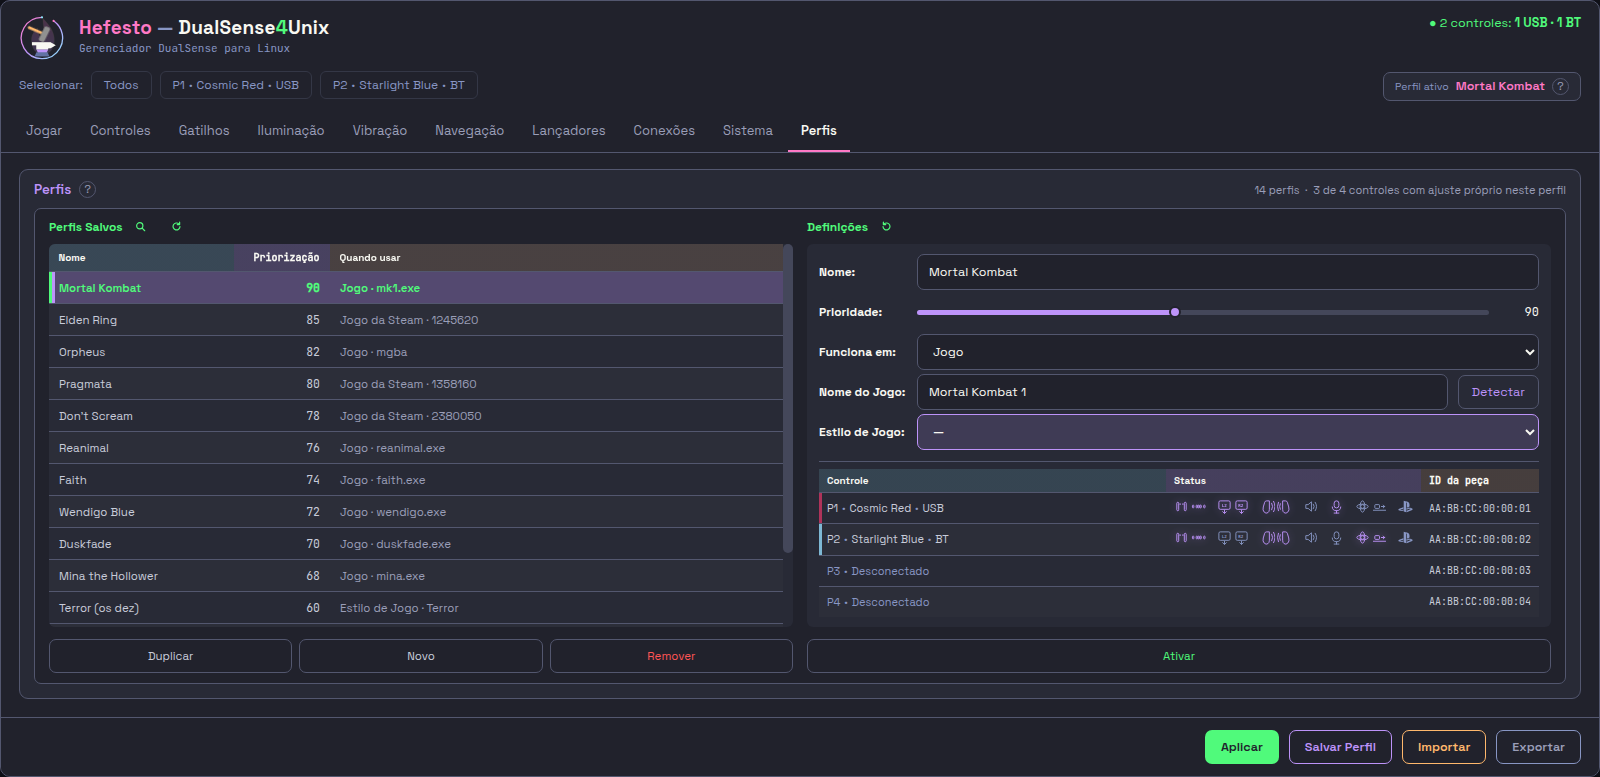
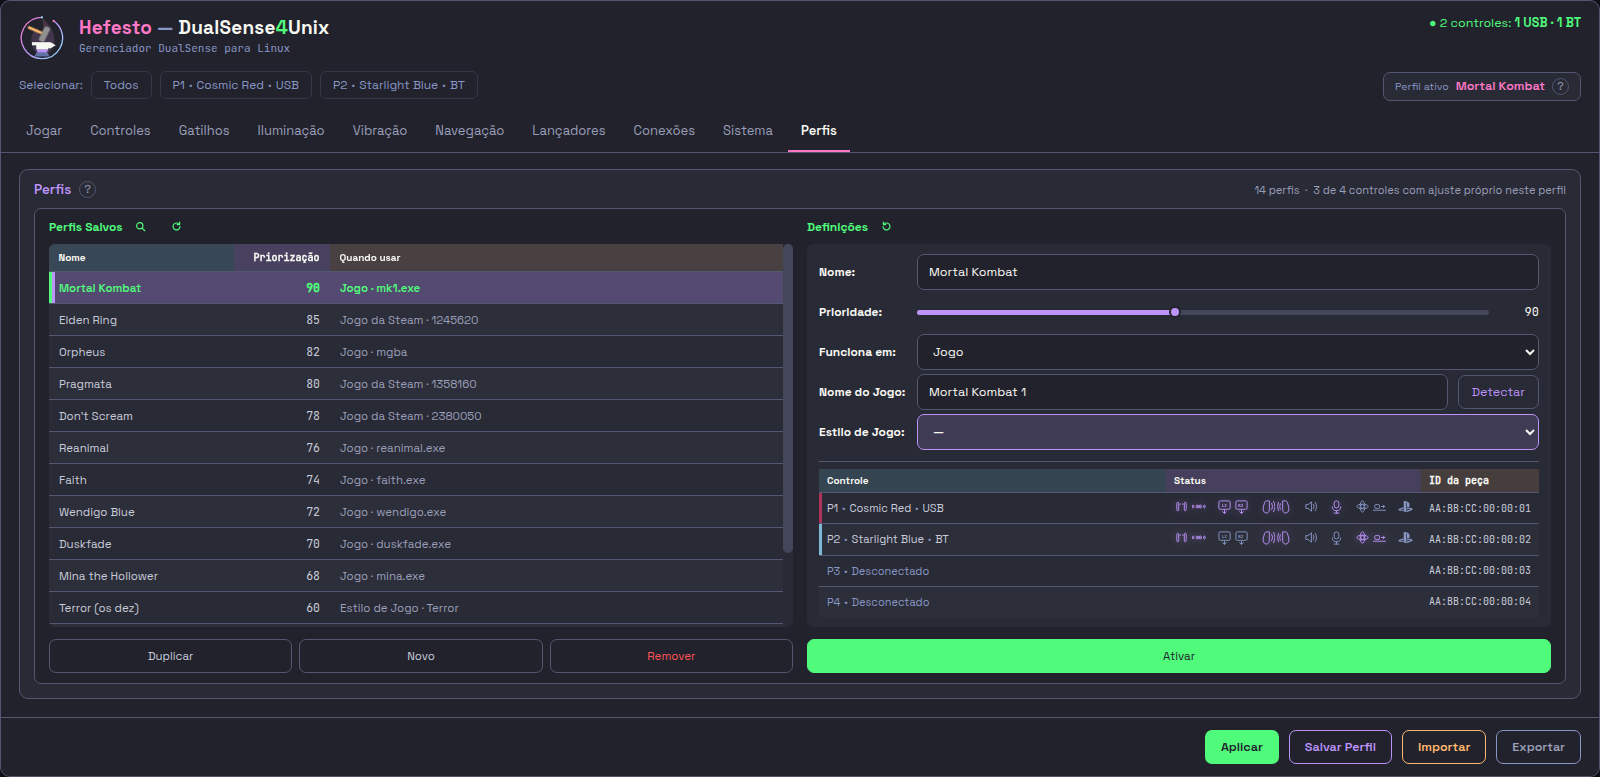
fix(tela): o «Achei este lançador aqui» sai dos cinco cartões, e o «Ativar» fica sólido
Duas ordens dela, 11/09/2026, com o produto instalado na frente:

> *"remove as frases do achei esse lançador aqui"*
> *"deixa esse botão verde do ativar igual o do aplicar"*

A FRASE ERA O SELO DE NOVO, EM PROSA. Cinco cartões empilhados — Heroic,
Lutris, Flatpak, RetroArch e Dolphin·mGBA — repetiam o mesmo parágrafo com o
caminho do `.desktop` no meio, e ela leu os cinco de uma vez. Quem responde «o
produto achou este lançador» é o selo `LOCALIZADO`; quantos jogos ele tem, a
linha de cima. A `DIZ_ACHEI` fica no código, vazia: ela é o LUGAR da frase
deste estado, e apagá-la faria o cartão do achado e o do não-achado deixarem
de ser simétricos.

E A RÉGUA COBRAVA O CAMINHO NA TELA. Ela passa a cobrar o contrário — que o
cartão achado seja o ÚNICO calado, e que os outros dois continuem falando,
porque neles o selo sozinho não diz o que fazer. Uma frase que volte a nascer
ali reprova.

O «Ativar» GANHA A FORMA DO «Aplicar»: fundo verde, texto na cor do fundo da
janela. O `.btn.verde` da casa pinta só o TEXTO, e era assim que ele nascia na
fileira de três; sozinho no canto largo ele é a ação principal da aba, e ela o
leu como tal. O seletor é local (`.botoes.um-so`) de propósito — a casa tem
outros botões verdes de contorno, e trocá-los todos mudaria nove telas que ela
não olhou.

56 portões verdes.

Changed region(s): [[0.5, 0.8031, 0.9688, 0.8649]]

diff --git a/mockup/10-perfis.html b/mockup/10-perfis.html
@@ -1180,6 +1180,21 @@
   /* UM BOTÃO SÓ, e a grade de três o deixaria com um terço da largura e dois
      vãos vazios ao lado — que é mais sujo do que os três eram. 11/09/2026. */
   .botoes.um-so{grid-template-columns:1fr}
+  /* O «Ativar» É SÓLIDO COMO O «Aplicar» — ordem dela, 11/09/2026: *"deixa esse
+     botão verde do ativar igual o do aplicar"*.  (noqa-acento) citação literal dela
+     O `.btn.verde` da casa pinta só o TEXTO de verde, e é assim que o `Ativar`
+     nasceu na fileira da esquerda, ao lado de dois irmãos de contorno. Sozinho
+     no canto largo ele é a ação PRINCIPAL desta aba, e ela o leu como tal: a
+     mesma forma do `r-aplicar` do rodapé (fundo verde, texto na cor do fundo
+     da janela), que é o único outro botão desta tela que faz alguma coisa
+     acontecer nos controles agora.
+     O SELETOR É LOCAL DE PROPÓSITO — `.botoes.um-so` e não `.btn.verde`: a casa
+     tem outros botões verdes de contorno, e trocá-los todos por causa deste
+     mudaria nove telas que ela não olhou. */
+  .botoes.um-so .btn.verde{background:var(--green);color:var(--app-bg);
+                           border-color:var(--green)}
+  .botoes.um-so .btn.verde:hover{background:var(--green);color:var(--app-bg);
+                                 border-color:var(--green)}
   /* os campos do editor, todos na mesma grade */
   /* os campos ficam sobre o MESMO fundo da tabela ao lado, e assim os três botões
      de baixo nascem na mesma base nos dois blocos. */

diff --git a/src/hefesto_dualsense4unix/interface/paginas/10-perfis.html b/src/hefesto_dualsense4unix/interface/paginas/10-perfis.html
@@ -1180,6 +1180,21 @@
   /* UM BOTÃO SÓ, e a grade de três o deixaria com um terço da largura e dois
      vãos vazios ao lado — que é mais sujo do que os três eram. 11/09/2026. */
   .botoes.um-so{grid-template-columns:1fr}
+  /* O «Ativar» É SÓLIDO COMO O «Aplicar» — ordem dela, 11/09/2026: *"deixa esse
+     botão verde do ativar igual o do aplicar"*.  (noqa-acento) citação literal dela
+     O `.btn.verde` da casa pinta só o TEXTO de verde, e é assim que o `Ativar`
+     nasceu na fileira da esquerda, ao lado de dois irmãos de contorno. Sozinho
+     no canto largo ele é a ação PRINCIPAL desta aba, e ela o leu como tal: a
+     mesma forma do `r-aplicar` do rodapé (fundo verde, texto na cor do fundo
+     da janela), que é o único outro botão desta tela que faz alguma coisa
+     acontecer nos controles agora.
+     O SELETOR É LOCAL DE PROPÓSITO — `.botoes.um-so` e não `.btn.verde`: a casa
+     tem outros botões verdes de contorno, e trocá-los todos por causa deste
+     mudaria nove telas que ela não olhou. */
+  .botoes.um-so .btn.verde{background:var(--green);color:var(--app-bg);
+                           border-color:var(--green)}
+  .botoes.um-so .btn.verde:hover{background:var(--green);color:var(--app-bg);
+                                 border-color:var(--green)}
   /* os campos do editor, todos na mesma grade */
   /* os campos ficam sobre o MESMO fundo da tabela ao lado, e assim os três botões
      de baixo nascem na mesma base nos dois blocos. */

diff --git a/src/hefesto_dualsense4unix/interface/desenho_dos_lancadores.py b/src/hefesto_dualsense4unix/interface/desenho_dos_lancadores.py
@@ -879,14 +879,24 @@ DIZ_SEM_FONTE = (
     "por aqui entra pelo mesmo caminho de qualquer outro."
 )
 
-#: A frase de quem PROCUROU E ACHOU. O `{onde}` é o atalho ou o comando que
-#: denunciou o lançador — dizer ONDE é o que separa esta frase de um palpite,
-#: e é o que deixa ela conferir a resposta sem acreditar em mim.
-DIZ_ACHEI = (
-    "<b>Achei este lançador aqui</b> (<code>{onde}</code>). O perfil casa pelo "
-    "nome do processo e pela janela, então um jogo aberto por aqui entra pelo "
-    "mesmo caminho de qualquer outro."
-)
+#: A frase de quem PROCUROU E ACHOU — **VAZIA DESDE 11/09/2026, ordem dela**:
+#: *"remove as frases do achei esse lançador aqui"*.  <!-- noqa-acento: citação literal dela -->
+#:
+#: O CARTÃO JÁ DIZ AS DUAS COISAS SEM ELA. O selo `LOCALIZADO` responde *"o
+#: produto achou este lançador"*, e a linha de cima responde quantos jogos ele
+#: tem — a frase repetia o selo em prosa, no plural, em cinco cartões
+#: empilhados. Ela viu os cinco de uma vez e recusou os cinco.
+#:
+#: **O CAMINHO NÃO SE PERDEU, mudou de lugar**: ele continua sendo lido e
+#: continua sendo o que o `presente=True` afirma; o que saiu foi pintá-lo na
+#: tela. Quem precisa conferir por onde o produto achou o lançador tem o
+#: `doctor`, que imprime o atalho e o comando de cada um.
+#:
+#: A CONSTANTE FICA, e vazia de propósito — ela é o LUGAR da frase deste
+#: estado, e apagá-la faria o cartão do achado e o do não-achado deixarem de
+#: ser simétricos no código. As réguas que perguntam pelo estado continuam
+#: tendo a quem perguntar.
+DIZ_ACHEI = ""
 
 #: A frase de quem PROCUROU E NÃO ACHOU.
 #:
@@ -1843,7 +1853,7 @@ def cartao_sem_censo(item: SemCenso, onde: str | None,
     return Lancador(
         chave=item.chave, nome=item.nome, selo="localizado",
         jogos=resumo or "—",
-        diz=DIZ_ACHEI.format(onde=_e(onde)),
+        diz=DIZ_ACHEI,
         acoes=abrir + localizar + tirar, presente=True)
 
 

diff --git a/tests/unit/test_a_aba_lancadores_diz_a_verdade.py b/tests/unit/test_a_aba_lancadores_diz_a_verdade.py
@@ -648,9 +648,25 @@ def test_o_cartao_achado_e_o_nao_achado_dizem_coisas_diferentes(desenho):
     assert len({nao_procurei.diz, nao_achei.diz, achei.diz}) == 3, (
         "dois dos três estados dizem a MESMA frase — a tela voltou a não "
         "separar 'procurei e não achei' de 'ainda não procurei'")
-    assert "com.heroicgameslauncher.hgl.desktop" in achei.diz, (
-        "o cartão diz que achou e não diz ONDE — sem isso ela não tem como "
-        "conferir a resposta sem acreditar em mim")
+    # O CARTÃO ACHADO É O ÚNICO SEM FRASE — 11/09/2026, ordem dela:
+    # *"remove as frases do achei esse lançador aqui"*.  (noqa-acento) citação
+    # Aqui estava cravado o caminho do `.desktop`, e a régua cobrava que a tela
+    # o pintasse. Ela olhou cinco cartões empilhados repetindo o mesmo parágrafo
+    # e recusou os cinco: quem responde *"o produto achou este lançador"* é o
+    # SELO, e a linha de cima diz quantos jogos ele tem. A frase era o selo de
+    # novo, em prosa.
+    #
+    # O QUE A RÉGUA COBRA AGORA é o que sobrou de verdade: que o estado ACHADO
+    # continue distinguível dos outros dois na tela — pelo selo e pelo
+    # `presente`, que as linhas acima já medem — e que ele seja o único calado.
+    # Uma frase que voltasse a nascer aqui reprovaria, e é isso que morde.
+    assert achei.diz == "", (
+        f"o cartão do lançador ACHADO voltou a falar: {achei.diz!r}. Ela o "
+        f"calou em 11/09 — o selo `LOCALIZADO` e a contagem de jogos já dizem "
+        f"tudo o que a frase dizia")
+    assert nao_achei.diz and nao_procurei.diz, (
+        "o cartão calado tinha de ser SÓ o do achado — os outros dois estados "
+        "precisam da frase, porque neles o selo sozinho não diz o que fazer")
 
 
 def test_todo_cartao_tem_botao_nos_tres_estados_e_o_do_ausente_e_outro(desenho):

diff --git a/src/hefesto_dualsense4unix/interface/aba10.py b/src/hefesto_dualsense4unix/interface/aba10.py
@@ -519,6 +519,21 @@ CSS = CSS_GLIFO + """
   /* UM BOTÃO SÓ, e a grade de três o deixaria com um terço da largura e dois
      vãos vazios ao lado — que é mais sujo do que os três eram. 11/09/2026. */
   .botoes.um-so{grid-template-columns:1fr}
+  /* O «Ativar» É SÓLIDO COMO O «Aplicar» — ordem dela, 11/09/2026: *"deixa esse
+     botão verde do ativar igual o do aplicar"*.  (noqa-acento) citação literal dela
+     O `.btn.verde` da casa pinta só o TEXTO de verde, e é assim que o `Ativar`
+     nasceu na fileira da esquerda, ao lado de dois irmãos de contorno. Sozinho
+     no canto largo ele é a ação PRINCIPAL desta aba, e ela o leu como tal: a
+     mesma forma do `r-aplicar` do rodapé (fundo verde, texto na cor do fundo
+     da janela), que é o único outro botão desta tela que faz alguma coisa
+     acontecer nos controles agora.
+     O SELETOR É LOCAL DE PROPÓSITO — `.botoes.um-so` e não `.btn.verde`: a casa
+     tem outros botões verdes de contorno, e trocá-los todos por causa deste
+     mudaria nove telas que ela não olhou. */
+  .botoes.um-so .btn.verde{background:var(--green);color:var(--app-bg);
+                           border-color:var(--green)}
+  .botoes.um-so .btn.verde:hover{background:var(--green);color:var(--app-bg);
+                                 border-color:var(--green)}
   /* os campos do editor, todos na mesma grade */
   /* os campos ficam sobre o MESMO fundo da tabela ao lado, e assim os três botões
      de baixo nascem na mesma base nos dois blocos. */
